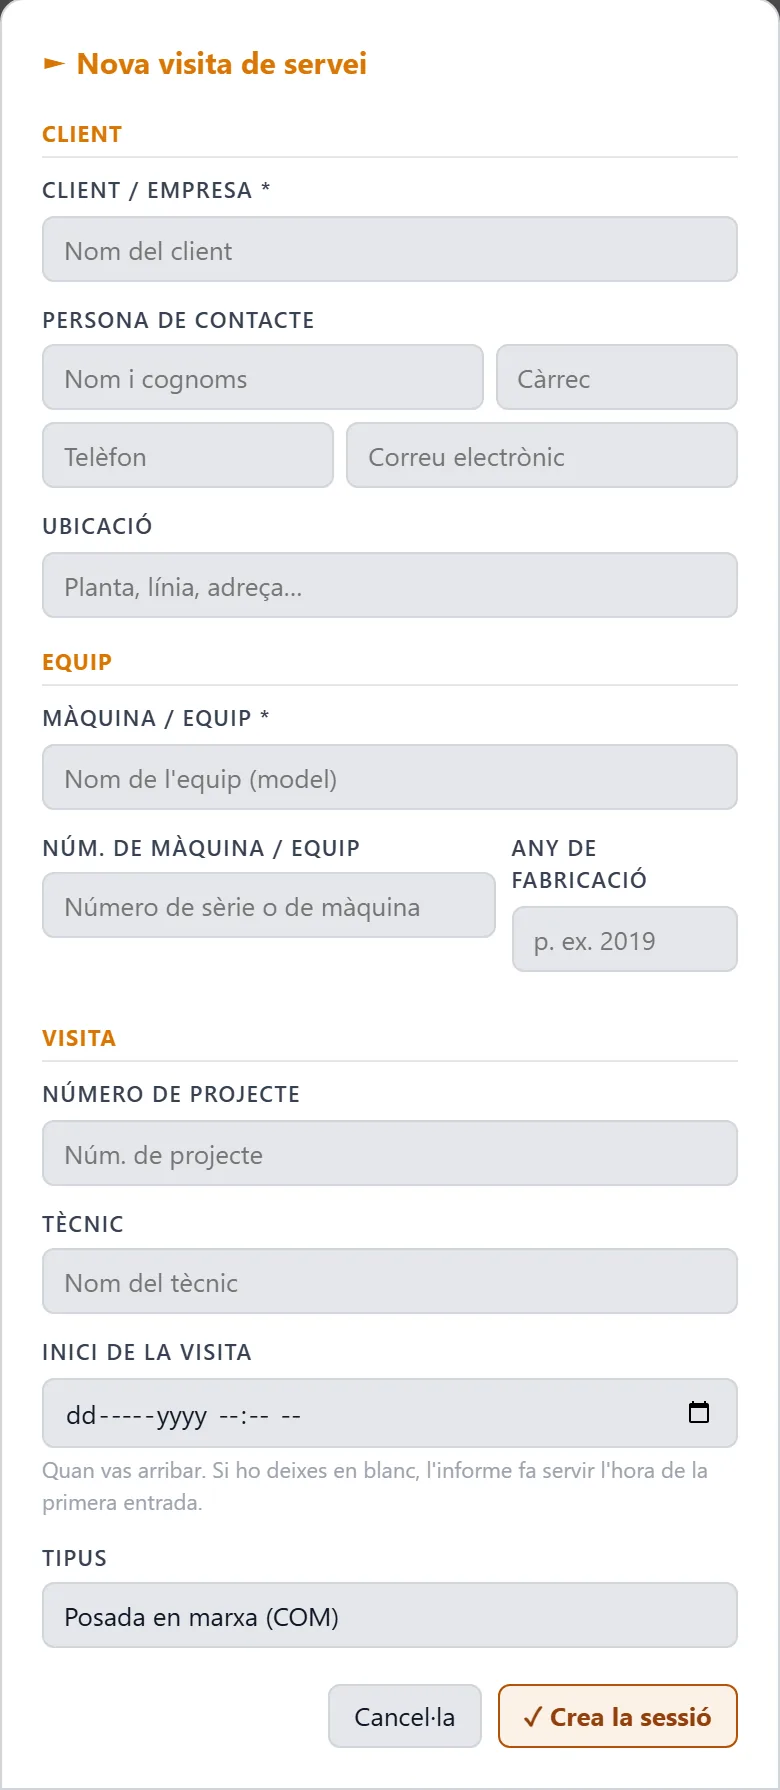
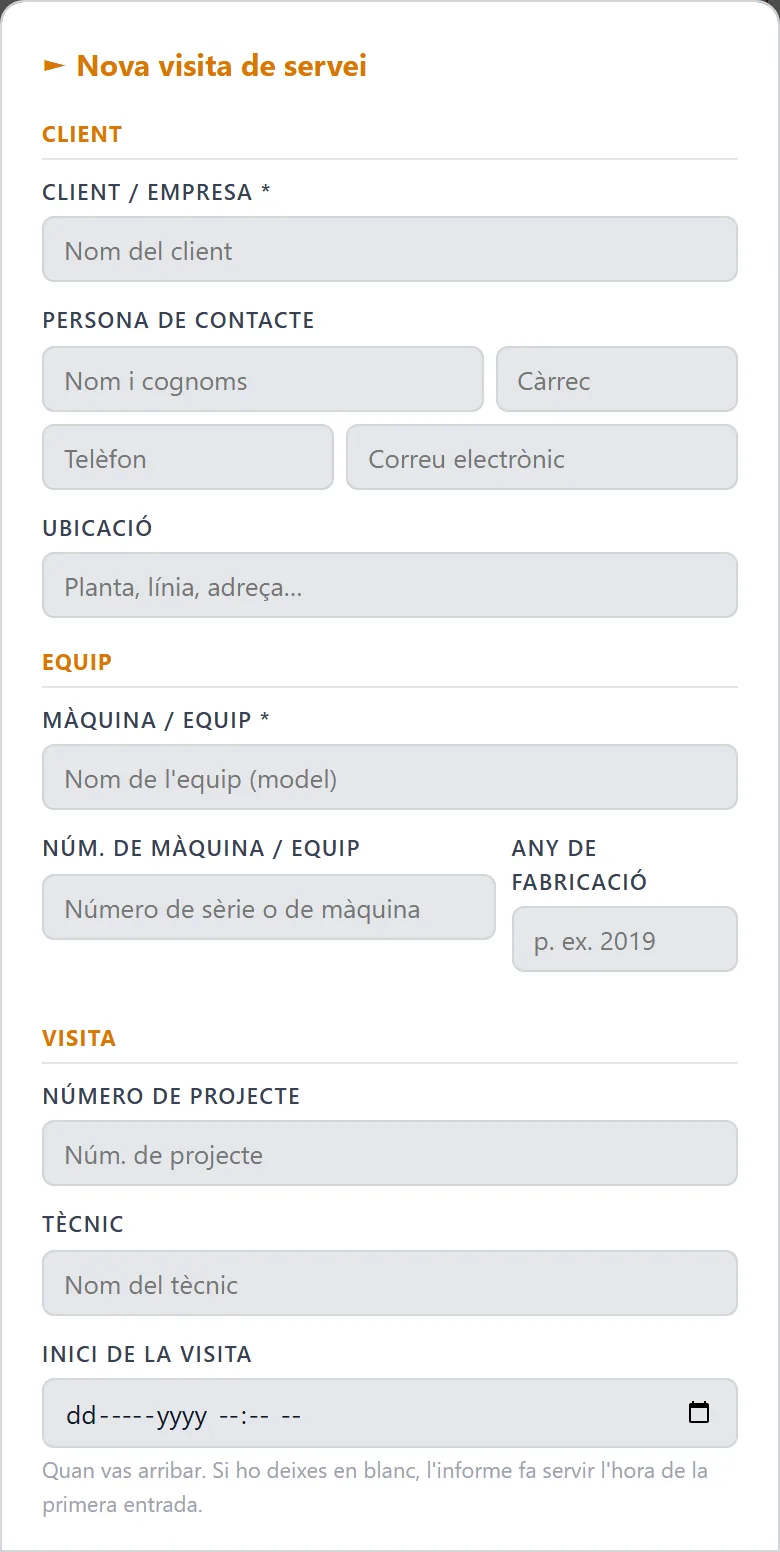
El contracte documenta la lectura automàtica i l'índex del manual: sections[] amb número, títol i pàgina, reconstruït dels encapçalaments del cos, que al field app és la taula de continguts del manual vinculat

diff --git a/INTEGRATION.md b/INTEGRATION.md
@@ -71,6 +71,27 @@ en diagonal («Check hoses») i a cada cel·la el codi de periodicitat (D, S/W, 
 T/Q, Bi, A) o res. El field app hi llegeix, per a un tipus de component, què toca
 fer i cada quan.
 
+## Lectura automàtica i índex del manual (`sections[]`)
+
+Un manual PRODEC és el mateix manual cada vegada: la mateixa capçalera a cada pàgina
+del cos, els mateixos encapçalaments numerats, la llista de recanvis sota els mateixos
+quatre ròtuls, el mateix caixetí EPLAN a cada esquema. El recanvis-splitter té un botó
+«⚡ Llegeix el manual» que fa una passada per totes les pàgines, reconstrueix l'índex
+de seccions a partir dels encapçalaments del cos (l'índex imprès no porta els números
+de pàgina al text) i dispara una recepta per secció: fitxa de màquina, recanvis
+recomanats, matriu de manteniment, pàgines clau, i a l'annex el mapa de fulls i la
+llista de materials elèctrica. Tot el que en surt és el mateix que a mà, als mateixos
+panells, i s'edita igual.
+
+L'índex viatja al JSON:
+
+```
+sections:[ { num:"5.9", title:"RECOMMENDED SPARE PARTS LIST", page:128 } ]
+```
+
+Al field app és la taula de continguts del manual vinculat: «obre'm la secció 5.3»
+sense haver de saber a quina pàgina cau.
+
 ## Fitxa de màquina (`machine`)
 
 `machine` ja no són només `serial`, `model` i `client`. El full de dades del manual
@@ -121,7 +142,7 @@ Amb això, al field app un dispositiu de la llista (`tables[kind=electrical].row
 és a dos tocs del seu circuit: `full` → `sheets` → `page` → visor. Els números de full
 són text (poden dur lletra, «741A») i es comparen tal qual.
 
-> **El remapatge, les taules, les pàgines marcades i el mapa de fulls no es porten.** Viuen a pàgines que
+> **El remapatge, les taules, les pàgines marcades, el mapa de fulls i l'índex no es porten.** Viuen a pàgines que
 > no són de cap conjunt (la 128 dels recanvis recomanats, la 285 de la llista
 > elèctrica, la 110 de la consignació, tot l'annex d'esquemes), de manera que un PDF
 > retallat no les conté i no
